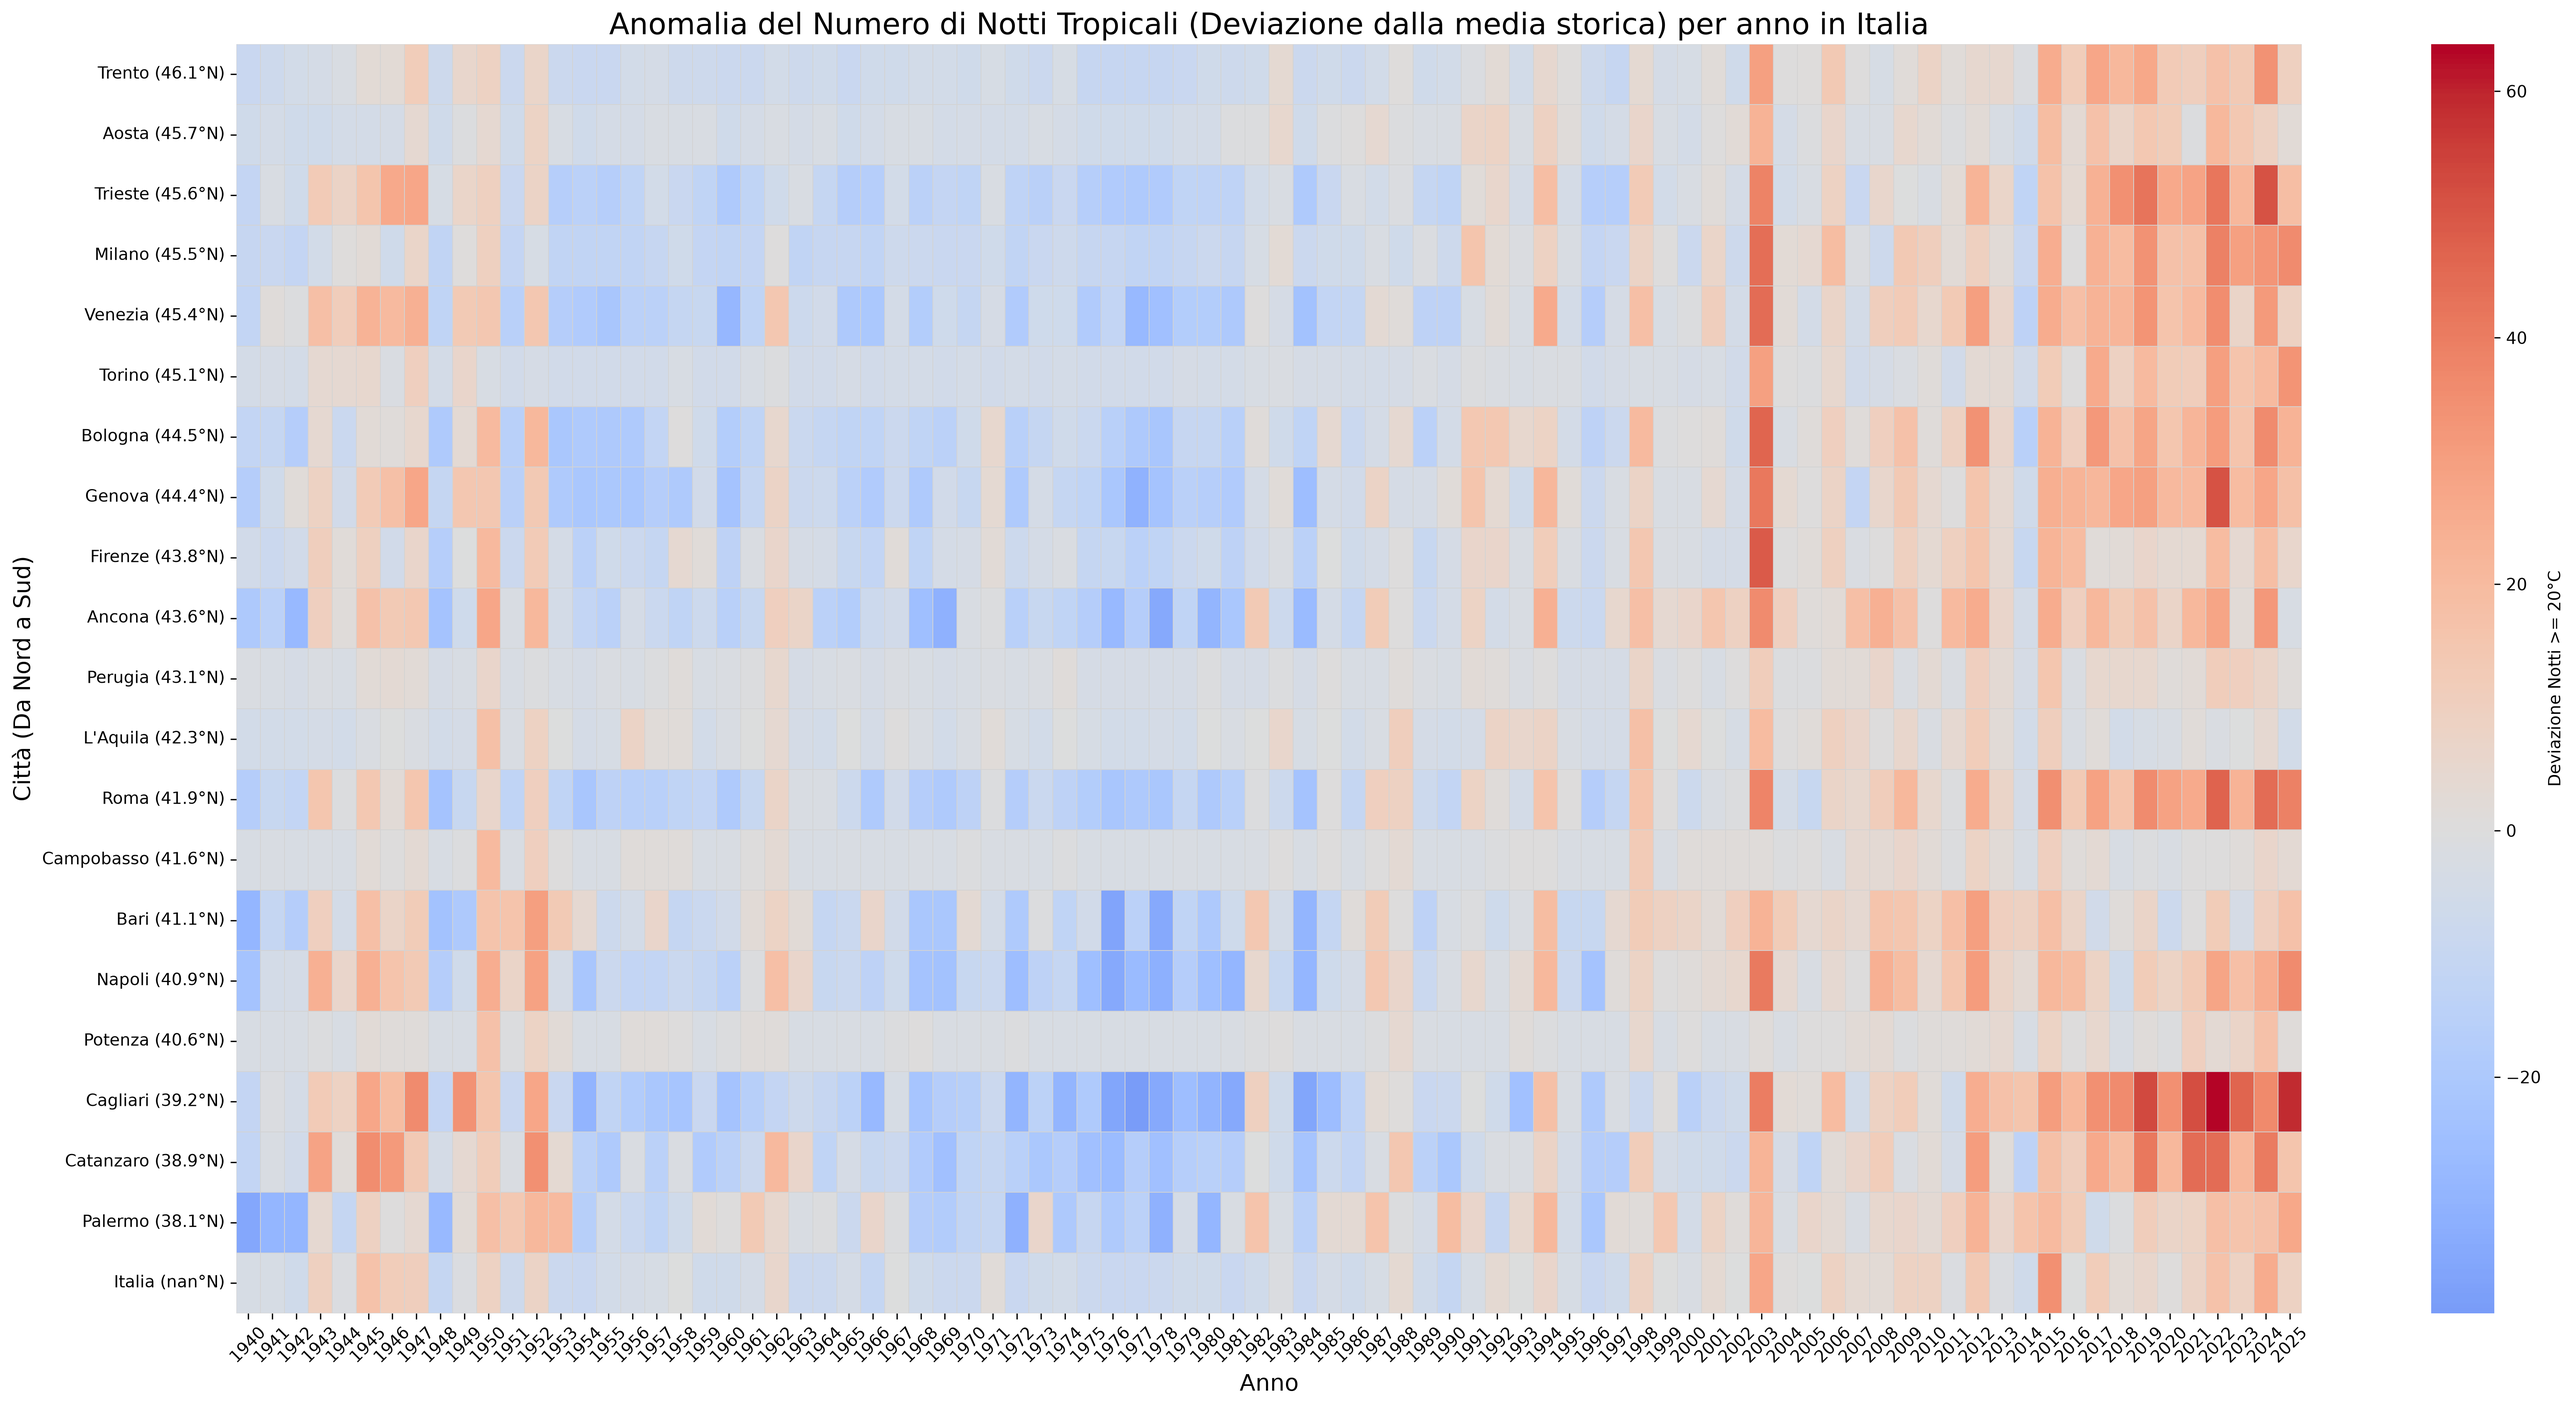
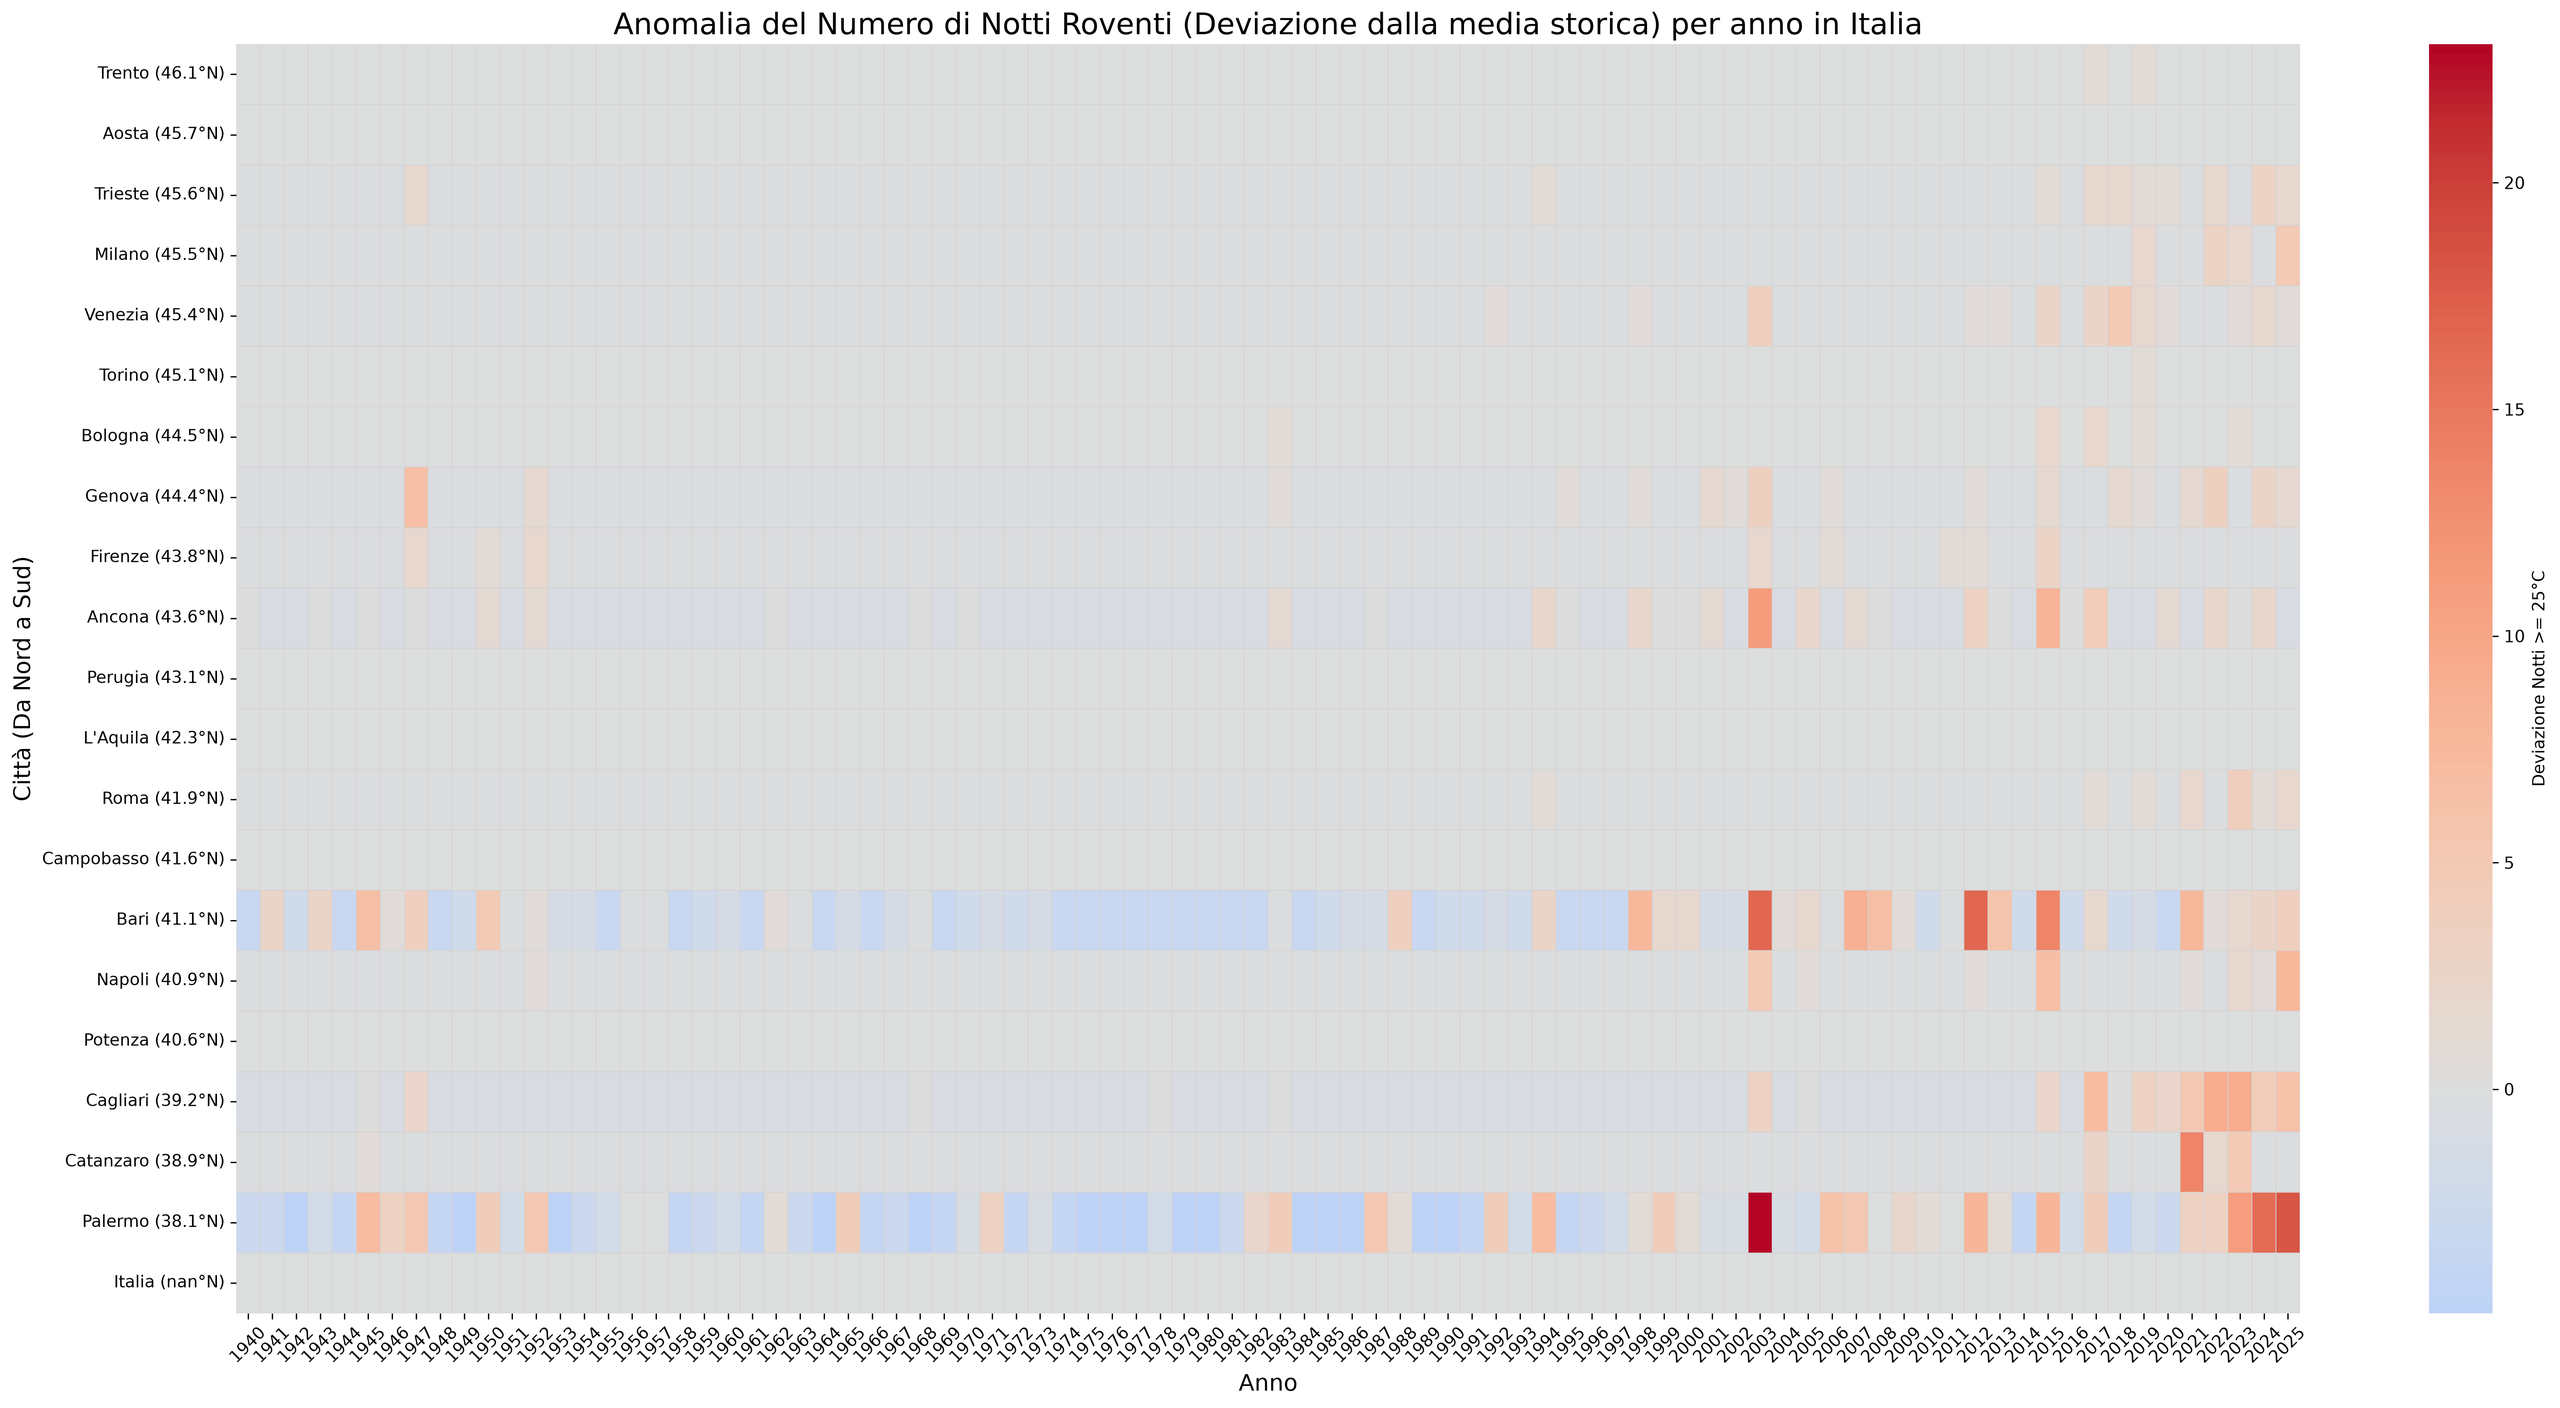
feat: Switch tropical nights threshold to 25C (Scorching Nights) to eliminate ERA5 coastal grid noise

diff --git a/docs/tropical_nights.html b/docs/tropical_nights.html
@@ -227,65 +227,53 @@
 </div>
 
 <header>
-    <h1>Notti Tropicali - Meteo Dashboard</h1>
-    <p class="subtitle">Analisi climatica automatizzata dei record di calore e precipitazioni in Europa e Italia (1940 - <span id="current-date">Oggi</span>).</p>
+    <h1>Notti Roventi - Meteo Dashboard</h1>
+    <p class="subtitle">Analisi climatica automatizzata del numero di notti con temperatura minima non inferiore a 25°C (massimo stress termico notturno) in Europa e Italia (1940 - <span id="current-date">Oggi</span>).</p>
     
 </header>
 
 <div class="container">
     <a href="index.html" style="display: inline-block; margin-bottom: 2rem; color: var(--accent-color); text-decoration: none; font-weight: bold;">&larr; Torna alla Home</a>
-    <h2 class="section-title">🌙 Notti Tropicali (Minima >= 20°C)</h2>
+    <h2 class="section-title">🔥 Notti Roventi / Equatoriali (Minima >= 25°C)</h2>
     <div class="grid">
         <div class="card">
             <div class="card-img-wrapper">
-                <img src="tropical_nights_italy.png" alt="Notti Tropicali Italia" loading="lazy" class="zoomable">
+                <img src="tropical_nights_italy.png" alt="Notti Roventi Italia" loading="lazy" class="zoomable">
             </div>
             <div class="card-content">
                 <h3 class="card-title">Italia</h3>
-                <p class="card-desc">Numero assoluto di notti in un anno solare in cui la temperatura minima non è scesa sotto i 20°C.</p>
+                <p class="card-desc">Numero assoluto di notti in un anno solare in cui la temperatura minima non è scesa sotto i 25°C.</p>
             </div>
         </div>
         <div class="card">
             <div class="card-img-wrapper">
-                <img src="tropical_nights_europe.png" alt="Notti Tropicali Europa" loading="lazy" class="zoomable">
+                <img src="tropical_nights_europe.png" alt="Notti Roventi Europa" loading="lazy" class="zoomable">
             </div>
             <div class="card-content">
                 <h3 class="card-title">Europa</h3>
-                <p class="card-desc">Numero assoluto di notti in un anno solare in cui la temperatura minima non è scesa sotto i 20°C.</p>
-            </div>
-        </div>
-    </div>
-
-    <div style="margin: 2rem 0; padding: 1.25rem 1.5rem; background-color: #fffbebf5; border-left: 4px solid #f59e0b; border-radius: 8px; box-shadow: 0 1px 3px rgba(0,0,0,0.05);">
-        <div style="display: flex; align-items: flex-start; gap: 12px;">
-            <span style="font-size: 1.4rem; line-height: 1;">⚠</span>
-            <div>
-                <strong style="color: #92400e; font-size: 1rem; display: block; margin-bottom: 0.25rem;">Avviso metodologico sulle Temperature Minime (Rianalisi ERA5)</strong>
-                <p style="margin: 0; color: #78350f; font-size: 0.92rem; line-height: 1.5;">
-                    I dati si basano sulla rianalisi atmosferica globale <strong>ECMWF ERA5</strong> (~25 km). Nei decenni pre-satellitari (in particolare 1940–1955), a causa della minore densità di osservazioni storiche e dell'assimilazione della temperatura della superficie marina su celle di griglia costiere, il modello può mostrare una sovrastima (warm bias) delle minime notturne per alcune città marittime rispetto a stazioni di terraferma o in altura (es. Observatori Fabra a Barcellona). L'era satellitare (dal 1979 in poi) garantisce la massima accuratezza.
-                </p>
+                <p class="card-desc">Numero assoluto di notti in un anno solare in cui la temperatura minima non è scesa sotto i 25°C.</p>
             </div>
         </div>
     </div>
     
-    <h2 class="section-title">📊 Anomalie delle Notti Tropicali</h2>
+    <h2 class="section-title">📊 Anomalie delle Notti Roventi</h2>
     <div class="grid">
         <div class="card">
             <div class="card-img-wrapper">
-                <img src="tropical_nights_anomaly_italy.png" alt="Anomalie Notti Tropicali Italia" loading="lazy" class="zoomable">
+                <img src="tropical_nights_anomaly_italy.png" alt="Anomalie Notti Roventi Italia" loading="lazy" class="zoomable">
             </div>
             <div class="card-content">
                 <h3 class="card-title">Anomalie Italia</h3>
-                <p class="card-desc">Deviazione del numero di notti tropicali rispetto alla media storica. Colori caldi indicano anni con più notti tropicali della norma.</p>
+                <p class="card-desc">Deviazione del numero di notti roventi rispetto alla media storica. Colori caldi indicano anni con più notti roventi della norma.</p>
             </div>
         </div>
         <div class="card">
             <div class="card-img-wrapper">
-                <img src="tropical_nights_anomaly_europe.png" alt="Anomalie Notti Tropicali Europa" loading="lazy" class="zoomable">
+                <img src="tropical_nights_anomaly_europe.png" alt="Anomalie Notti Roventi Europa" loading="lazy" class="zoomable">
             </div>
             <div class="card-content">
                 <h3 class="card-title">Anomalie Europa</h3>
-                <p class="card-desc">Deviazione del numero di notti tropicali rispetto alla media storica. Colori caldi indicano anni con più notti tropicali della norma.</p>
+                <p class="card-desc">Deviazione del numero di notti roventi rispetto alla media storica. Colori caldi indicano anni con più notti roventi della norma.</p>
             </div>
         </div>
     </div>

diff --git a/docs/index.html b/docs/index.html
@@ -288,8 +288,8 @@
         </a>
         <a href="tropical_nights.html" style="text-decoration: none; color: inherit;">
             <div class="card" style="padding: 2rem; text-align: center;">
-                <h3 class="card-title">🌙 Notti Tropicali</h3>
-                <p class="card-desc">Notti con minima >= 20°C.</p>
+                <h3 class="card-title">🌙 Notti Roventi</h3>
+                <p class="card-desc">Notti con minima >= 25°C.</p>
             </div>
         </a>
         <a href="extreme_rain.html" style="text-decoration: none; color: inherit;">

diff --git a/plot_tropical_nights_italy.py b/plot_tropical_nights_italy.py
@@ -31,8 +31,8 @@ all_data['year'] = all_data['date'].dt.year
 # Filter from 1940 onwards
 all_data = all_data[all_data['year'] >= 1940]
 
-# Notti tropicali: temperatura minima >= 20 C
-all_data['is_tropical'] = (all_data['temperature_2m_min'] >= 20).astype(int)
+# Notti roventi: temperatura minima >= 25 C
+all_data['is_tropical'] = (all_data['temperature_2m_min'] >= 25).astype(int)
 yearly_data = all_data.groupby(['city', 'year'])['is_tropical'].sum().reset_index()
 
 heatmap_data = yearly_data.pivot(index='city', columns='year', values='is_tropical').fillna(0).astype(int)
@@ -48,11 +48,11 @@ annot_data = np.where(heatmap_data == 0, "", heatmap_data.astype(str))
 
 fig, ax = plt.subplots(figsize=(30, 12))
 
-# Use a purplish colormap for nights
+# Use a purplish/fire colormap for scorching nights
 sns.heatmap(heatmap_data, cmap=mcolors.LinearSegmentedColormap.from_list('WhitePurples', ['white', 'plum', 'purple', 'indigo']), ax=ax, annot=annot_data, fmt="", annot_kws={"size": 8},
-            linewidths=0.1, linecolor='lightgray', xticklabels=True, cbar_kws={'label': 'Notti >= 20°C'})
+            linewidths=0.1, linecolor='lightgray', xticklabels=True, cbar_kws={'label': 'Notti >= 25°C'})
 
-ax.set_title('Numero di Notti Tropicali (Minima >= 20°C) per anno nei Capoluoghi Italiani', fontsize=18)
+ax.set_title('Numero di Notti Roventi (Minima >= 25°C) per anno nei Capoluoghi Italiani', fontsize=18)
 ax.set_xlabel('Anno', fontsize=14)
 ax.set_ylabel('Città (Da Nord a Sud)', fontsize=14)
 
@@ -61,7 +61,7 @@ plt.tight_layout()
 
 output_path = 'docs/tropical_nights_italy.png'
 plt.savefig(output_path, dpi=300, bbox_inches='tight')
-print(f"Tropical nights heatmap saved to {output_path}")
+print(f"Scorching nights heatmap saved to {output_path}")
 plt.close(fig)
 
 # --- ANOMALY HEATMAP ---
@@ -82,9 +82,9 @@ annot_anomaly = anomaly_data.round(0).astype(int).astype(str)
 annot_anomaly = np.where(annot_anomaly == '0', '', annot_anomaly)
 
 sns.heatmap(anomaly_data, cmap='coolwarm', ax=ax2, annot=False,
-            center=0, linewidths=0.1, linecolor='lightgray', xticklabels=True, cbar_kws={'label': 'Deviazione Notti >= 20°C'})
+            center=0, linewidths=0.1, linecolor='lightgray', xticklabels=True, cbar_kws={'label': 'Deviazione Notti >= 25°C'})
 
-ax2.set_title('Anomalia del Numero di Notti Tropicali (Deviazione dalla media storica) per anno in Italia', fontsize=18)
+ax2.set_title('Anomalia del Numero di Notti Roventi (Deviazione dalla media storica) per anno in Italia', fontsize=18)
 ax2.set_xlabel('Anno', fontsize=14)
 ax2.set_ylabel('Città (Da Nord a Sud)', fontsize=14)
 
@@ -93,5 +93,5 @@ plt.tight_layout()
 
 anomaly_output_path = 'docs/tropical_nights_anomaly_italy.png'
 plt.savefig(anomaly_output_path, dpi=300, bbox_inches='tight')
-print(f"Tropical nights anomaly heatmap saved to {anomaly_output_path}")
+print(f"Scorching nights anomaly heatmap saved to {anomaly_output_path}")
 plt.close(fig2)

diff --git a/plot_tropical_nights_europe.py b/plot_tropical_nights_europe.py
@@ -40,8 +40,8 @@ all_data['year'] = all_data['date'].dt.year
 # Filter from 1940 onwards
 all_data = all_data[all_data['year'] >= 1940]
 
-# Notti tropicali: temperatura minima >= 20 C
-all_data['is_tropical'] = (all_data['temperature_2m_min'] >= 20).astype(int)
+# Notti roventi: temperatura minima >= 25 C
+all_data['is_tropical'] = (all_data['temperature_2m_min'] >= 25).astype(int)
 yearly_data = all_data.groupby(['city', 'year'])['is_tropical'].sum().reset_index()
 
 heatmap_data = yearly_data.pivot(index='city', columns='year', values='is_tropical').fillna(0).astype(int)
@@ -55,11 +55,11 @@ annot_data = np.where(heatmap_data == 0, "", heatmap_data.astype(str))
 
 fig, ax = plt.subplots(figsize=(30, 16))
 
-# Use a purplish colormap for nights
+# Use a purplish/fire colormap for scorching nights
 sns.heatmap(heatmap_data, cmap=mcolors.LinearSegmentedColormap.from_list('WhitePurples', ['white', 'plum', 'purple', 'indigo']), ax=ax, annot=annot_data, fmt="", annot_kws={"size": 8},
-            linewidths=0.1, linecolor='lightgray', xticklabels=True, cbar_kws={'label': 'Notti >= 20°C'})
+            linewidths=0.1, linecolor='lightgray', xticklabels=True, cbar_kws={'label': 'Notti >= 25°C'})
 
-ax.set_title('Numero di Notti Tropicali (Minima >= 20°C) per anno in Europa', fontsize=18)
+ax.set_title('Numero di Notti Roventi (Minima >= 25°C) per anno in Europa', fontsize=18)
 ax.set_xlabel('Anno', fontsize=14)
 ax.set_ylabel('Città (Da Nord a Sud)', fontsize=14)
 
@@ -68,7 +68,7 @@ plt.tight_layout()
 
 output_path = 'docs/tropical_nights_europe.png'
 plt.savefig(output_path, dpi=300, bbox_inches='tight')
-print(f"Tropical nights heatmap saved to {output_path}")
+print(f"Scorching nights heatmap saved to {output_path}")
 plt.close(fig)
 
 # --- ANOMALY HEATMAP ---
@@ -89,9 +89,9 @@ annot_anomaly = anomaly_data.round(0).astype(int).astype(str)
 annot_anomaly = np.where(annot_anomaly == '0', '', annot_anomaly)
 
 sns.heatmap(anomaly_data, cmap='coolwarm', ax=ax2, annot=False,
-            center=0, linewidths=0.1, linecolor='lightgray', xticklabels=True, cbar_kws={'label': 'Deviazione Notti >= 20°C'})
+            center=0, linewidths=0.1, linecolor='lightgray', xticklabels=True, cbar_kws={'label': 'Deviazione Notti >= 25°C'})
 
-ax2.set_title('Anomalia del Numero di Notti Tropicali (Deviazione dalla media storica) per anno in Europa', fontsize=18)
+ax2.set_title('Anomalia del Numero di Notti Roventi (Deviazione dalla media storica) per anno in Europa', fontsize=18)
 ax2.set_xlabel('Anno', fontsize=14)
 ax2.set_ylabel('Città (Da Nord a Sud)', fontsize=14)
 
@@ -100,6 +100,6 @@ plt.tight_layout()
 
 anomaly_output_path = 'docs/tropical_nights_anomaly_europe.png'
 plt.savefig(anomaly_output_path, dpi=300, bbox_inches='tight')
-print(f"Tropical nights anomaly heatmap saved to {anomaly_output_path}")
+print(f"Scorching nights anomaly heatmap saved to {anomaly_output_path}")
 plt.close(fig2)
 
